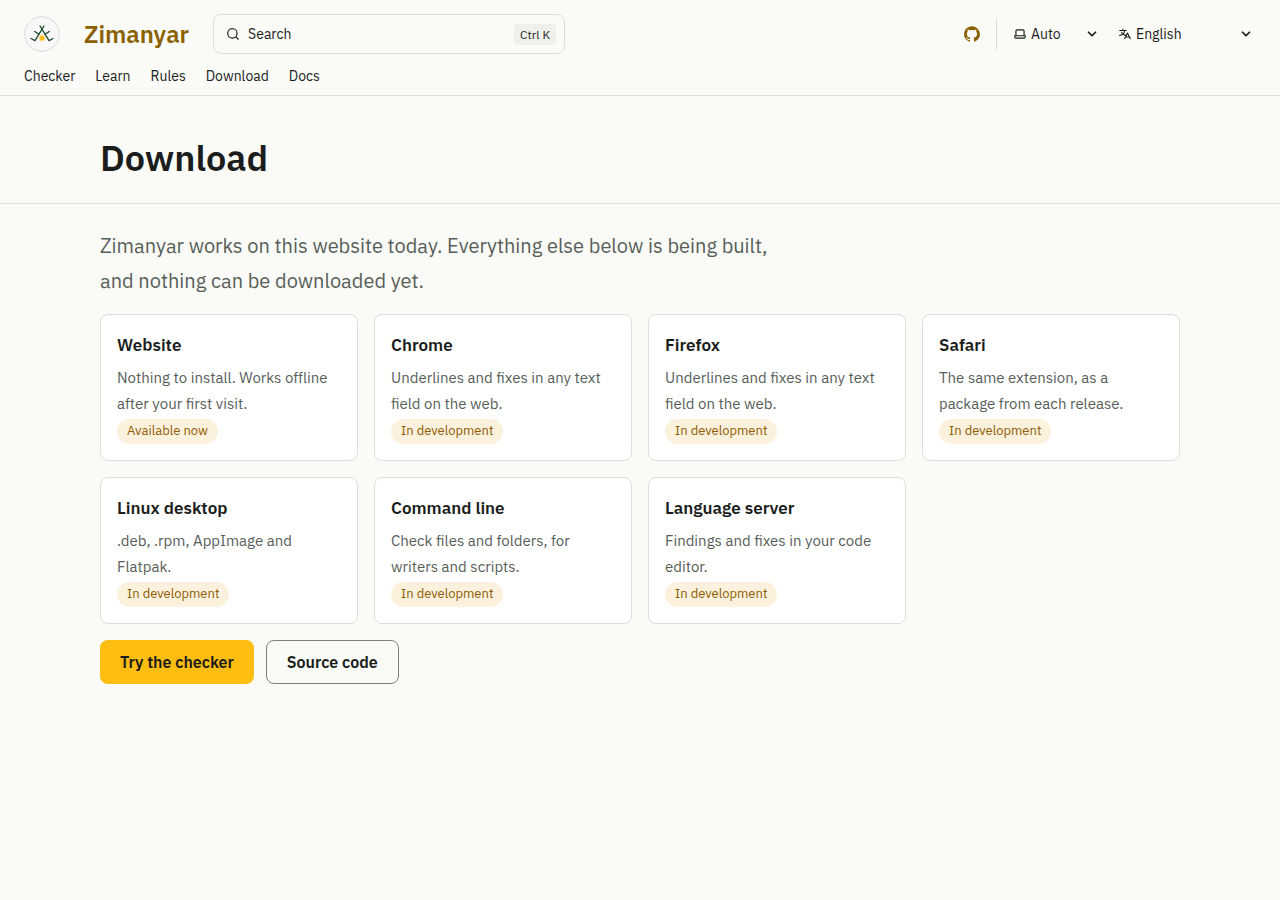
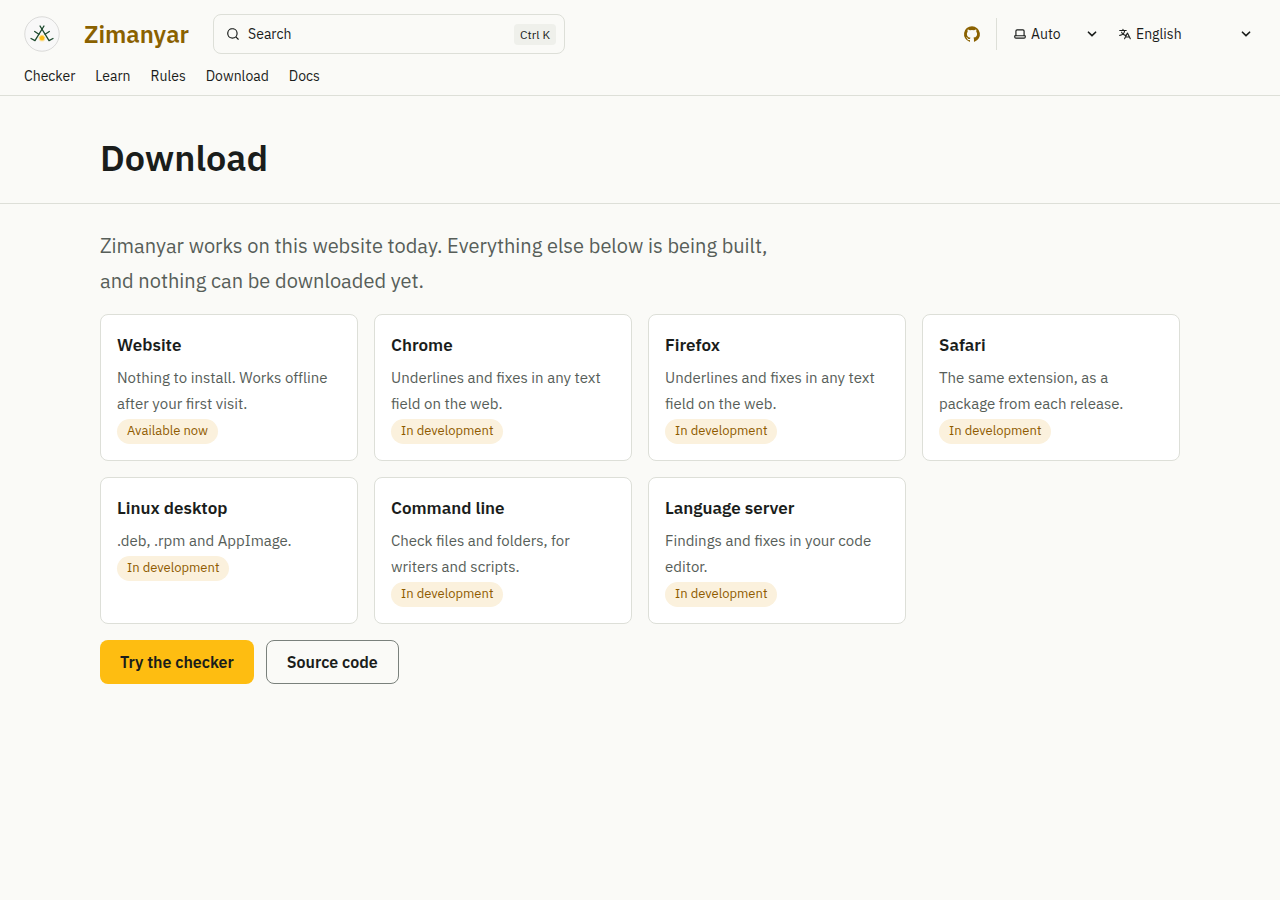
chore(release): remove the unused Flatpak manifest
The Ubuntu PPA covers the desktop app on Linux, so Zimanyar will not go to Flathub.

Changed region(s): [[0.0938, 0.5911, 0.2188, 0.6844]]

diff --git a/docs/dev/desktop.md b/docs/dev/desktop.md
@@ -29,7 +29,7 @@ Global shortcuts need X11 or XWayland, and the tray needs a desktop that shows o
 
 ## Packages
 
-`tauri build` makes the `.deb`, `.rpm` and AppImage. The AppImage step downloads `linuxdeploy` from its rolling `continuous` release, which Tauri does not let us pin, so a release should treat that package with less trust than the other two. `packaging/linux/` holds the desktop entry, AppStream metadata, man page and Debian copyright and changelog, and `check-package.sh` runs lintian, `appstreamcli` and `desktop-file-validate` on a `.deb`. `packaging/flatpak/` has a starting manifest for a later Flathub submission, and has never been built.
+`tauri build` makes the `.deb`, `.rpm` and AppImage. The AppImage step downloads `linuxdeploy` from its rolling `continuous` release, which Tauri does not let us pin, so a release should treat that package with less trust than the other two. `packaging/linux/` holds the desktop entry, AppStream metadata, man page and Debian copyright and changelog, and `check-package.sh` runs lintian, `appstreamcli` and `desktop-file-validate` on a `.deb`.
 
 ## Advisories
 

diff --git a/README.md b/README.md
@@ -79,7 +79,7 @@ All surfaces share one engine, one rule set and one interface.
 | Chrome, Edge, Brave | in-page checking, popup, settings, side panel | Chrome Web Store |
 | Firefox | in-page checking, popup, settings, sidebar | Firefox Add-ons |
 | Safari | the same extension | Xcode project in the GitHub releases |
-| Linux desktop | editor, lessons, tools; a global shortcut checks the clipboard | `.deb`, `.rpm`, AppImage; Flatpak later |
+| Linux desktop | editor, lessons, tools; a global shortcut checks the clipboard | `.deb`, `.rpm`, AppImage, Ubuntu PPA |
 | Command line | `zimanyar check`, with text, JSON and SARIF output for CI, and the word tools and lessons | npm, `.deb`, a single executable |
 | Editors | diagnostics, quick fixes, hovers and completion over LSP | `zimanyar-lsp` |
 | Web | a live checker, the lessons and the rule catalogue | <https://0xdolan.github.io/Zimanyar/> |

diff --git a/assets/marketing/README.md b/assets/marketing/README.md
@@ -20,6 +20,6 @@ The interface in the four store screenshots is real: they frame Playwright scree
 | `ads/ad-landscape-en.png` | 1200 × 675 | X / Twitter, LinkedIn, blog posts |
 | `ads/ad-story-{en,ckb,kmr}.png` | 1080 × 1920 | stories and reels covers |
 
-The Chrome Web Store screenshots (1280 × 800) also satisfy Firefox Add-ons and Flathub/AppStream requirements.
+The Chrome Web Store screenshots (1280 × 800) also satisfy Firefox Add-ons and AppStream requirements.
 
 To re-render one image: `scripts/marketing/render.sh ad-square` (any part of the output name).
